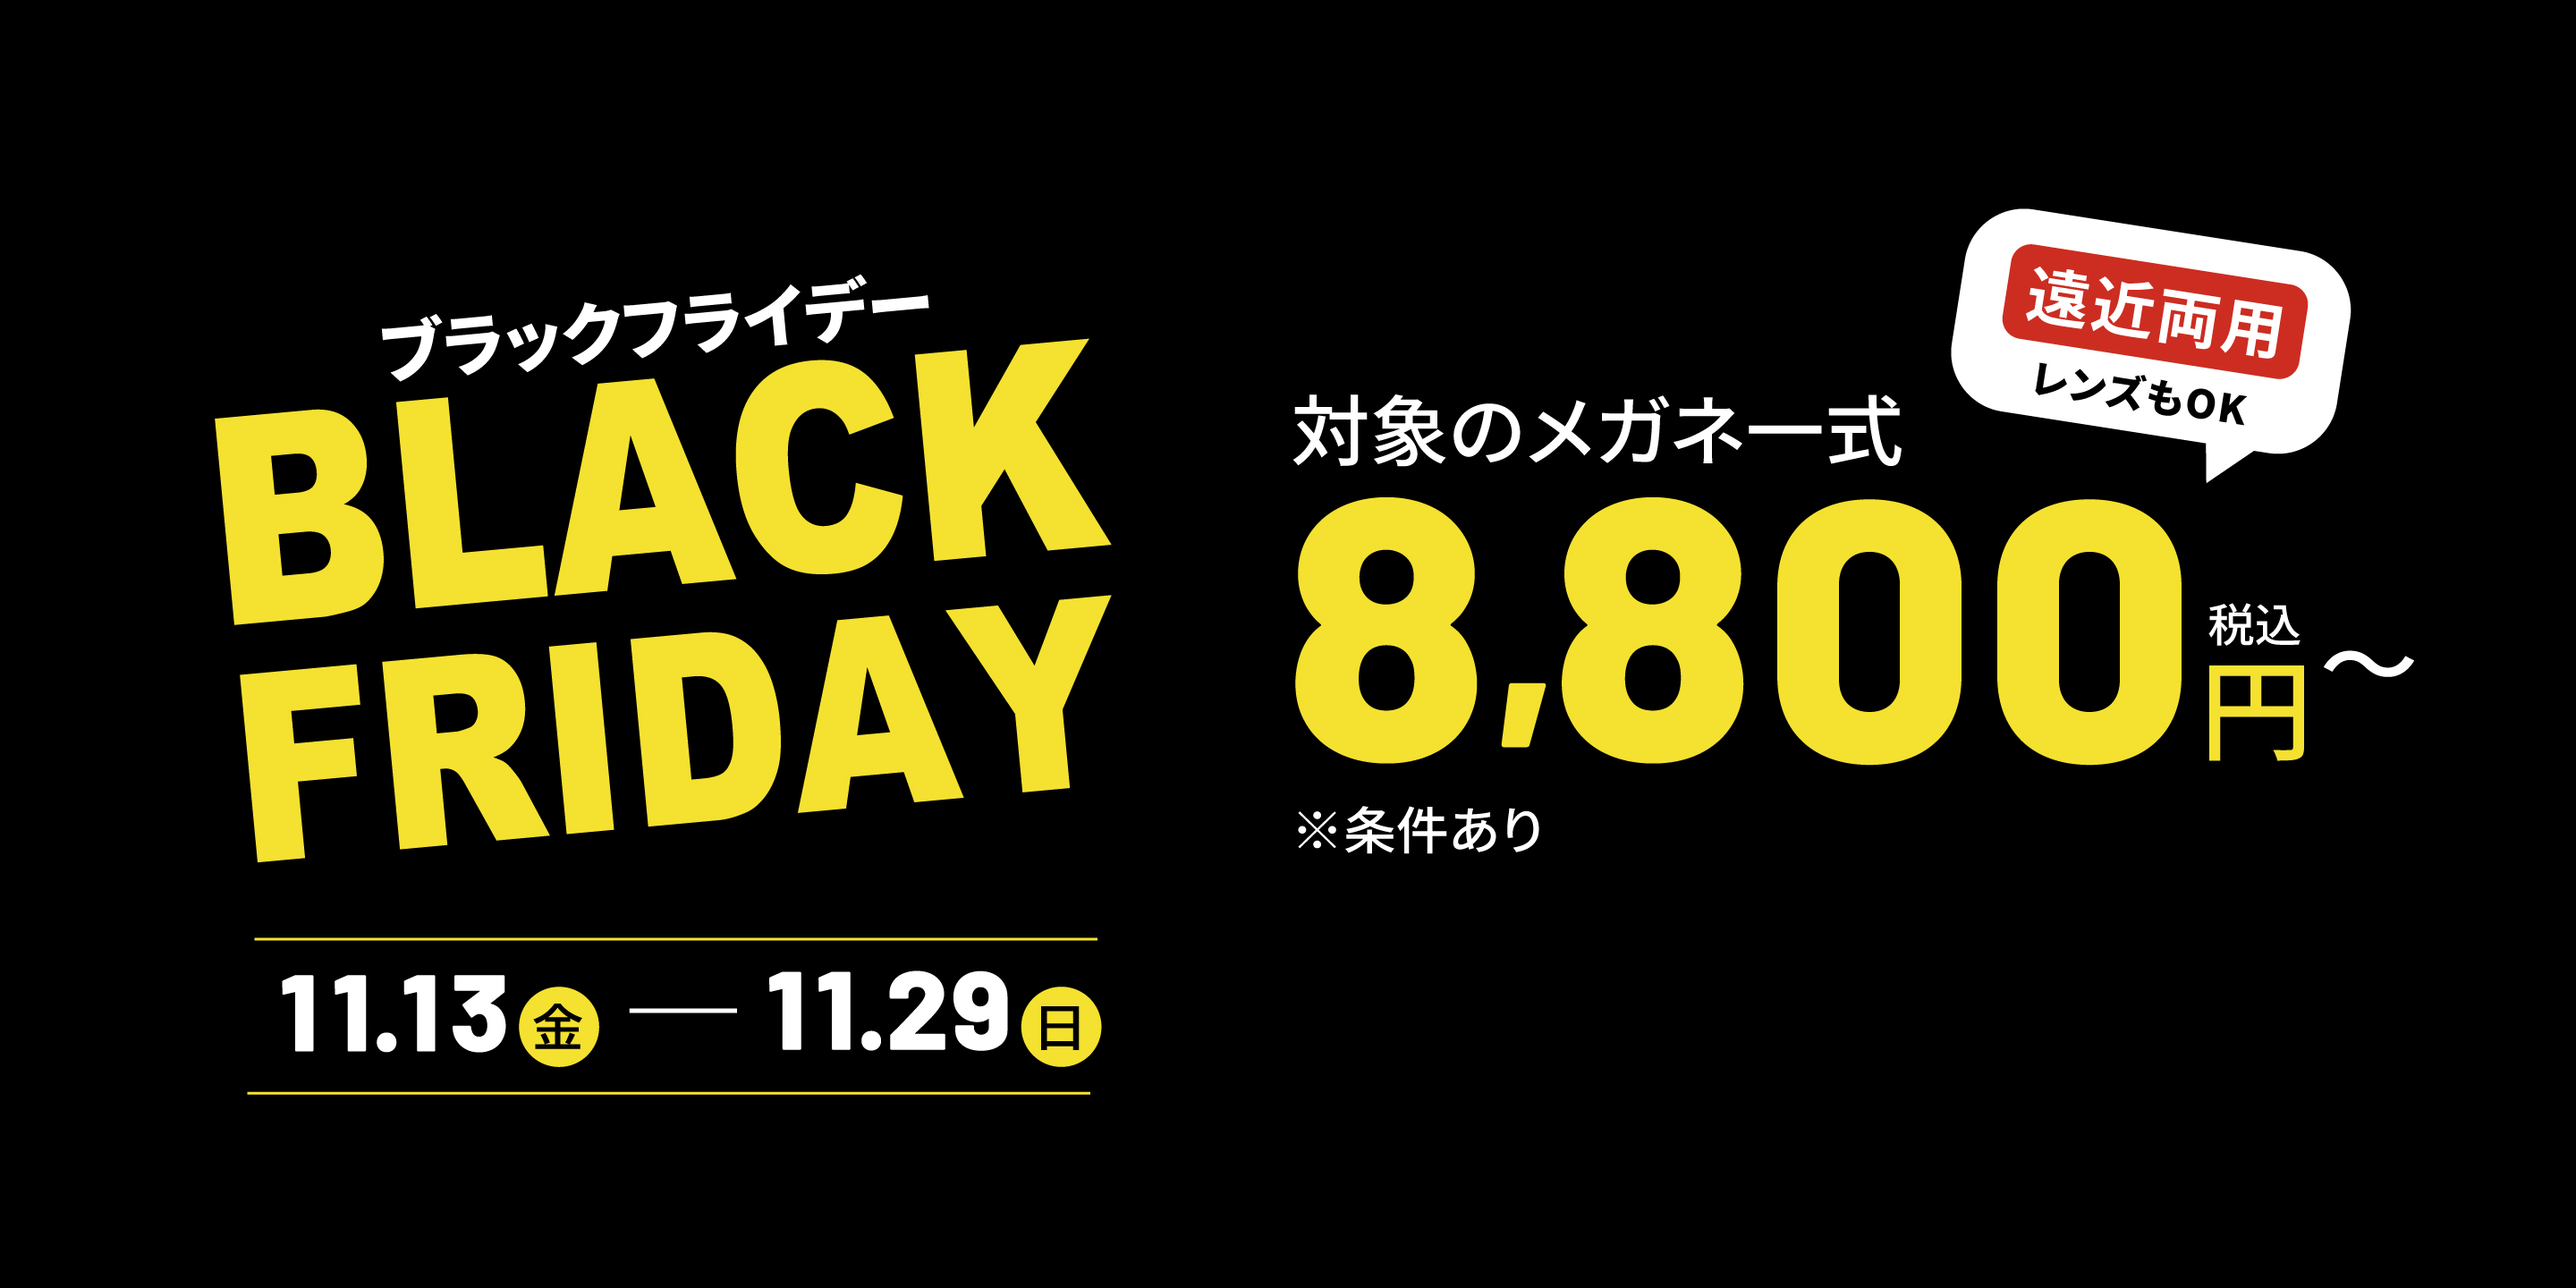
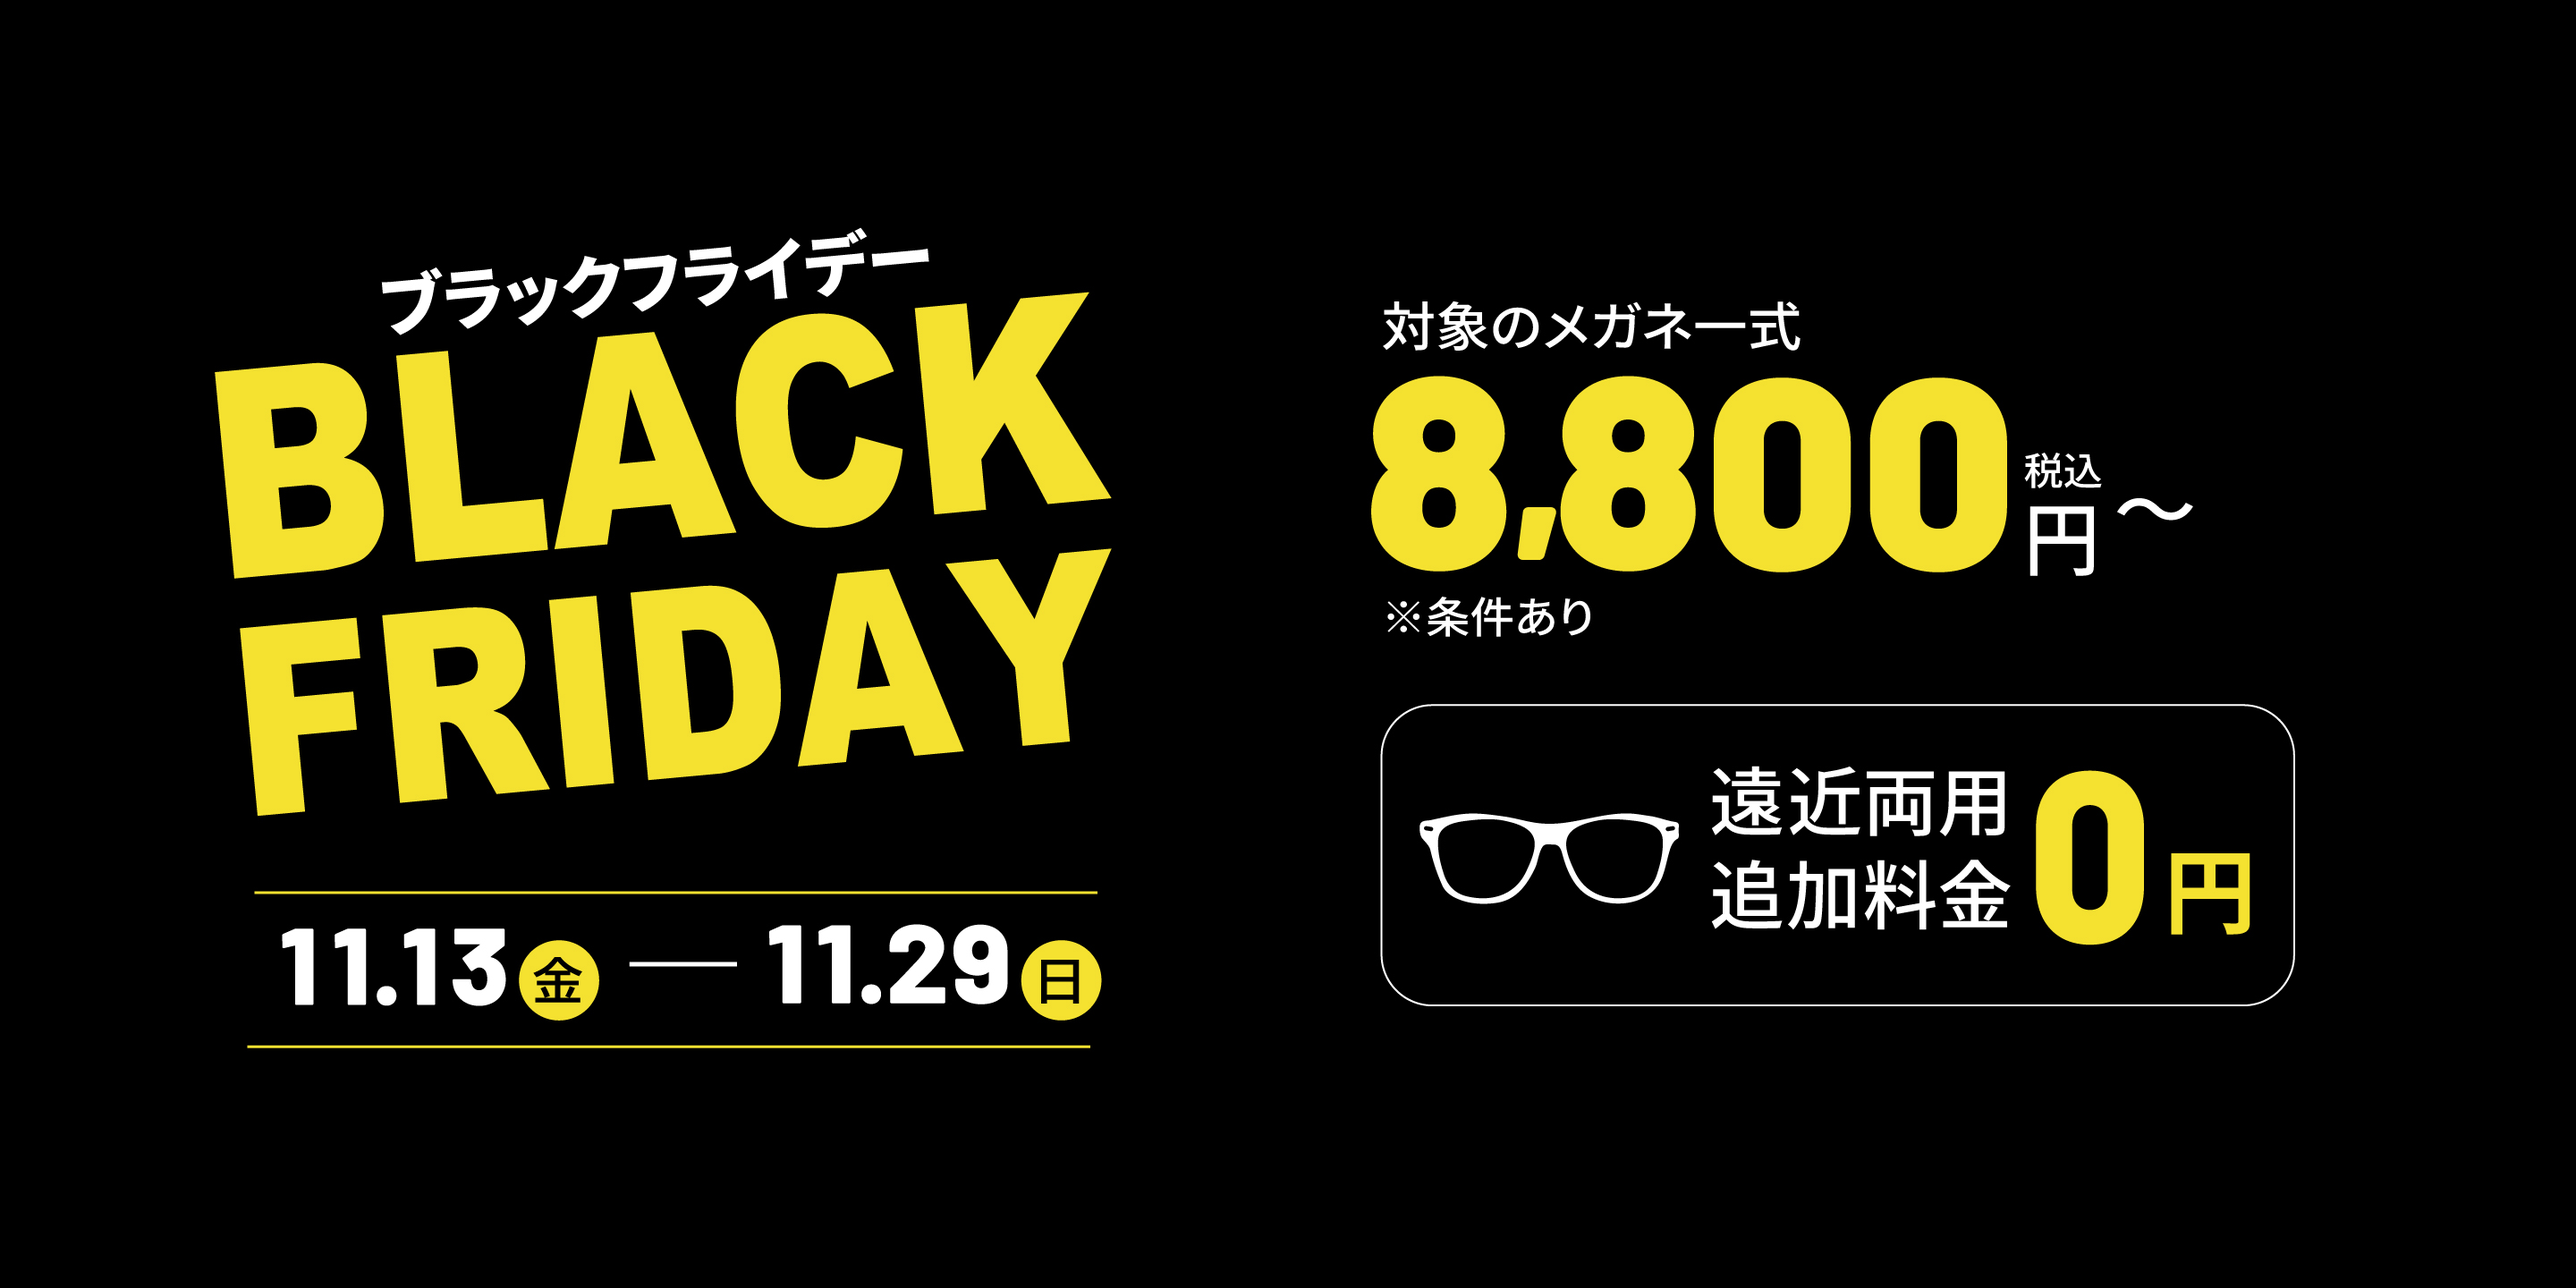
PC FV：新デザインに合わせて予約ボタンを遠近両用の枠の真下・同じ幅に

Changed region(s): [[0.5, 0.1562, 0.9375, 0.75], [0.0625, 0.1875, 0.4375, 0.6875], [0.0938, 0.7188, 0.4375, 0.8438]]

diff --git a/index.html b/index.html
@@ -1071,6 +1071,8 @@
     .fv .fv-cta .btn { width: 100%; }
     /* 10/29 FVのボタンを目立たせる：大きく・文字を大きく（まわりの光は「変に目立つ」ためなし） */
     .fv .fv-cta { width: 34vw; top: 37.5vw; }
+    /* 11/2 新しいPC FV（遠近両用0円の枠つき）→ボタンを枠の真下・枠と同じ幅に */
+    .fv .fv-cta { left: 53.6%; top: 43.4vw; width: 35.5vw; }
     .fv .fv-cta .btn-arw { min-height: 5.4vw; font-size: clamp(21px, 2vw, 38px); box-shadow: none; }
     .fv .fv-cta .btn-arw .arw { width: 3.8vw; height: 3.8vw; margin-top: -1.9vw; right: .8vw; font-size: 1.3vw; }
     /* 10/29 お得な内容：左に「2,200円OFF」・右に商品例の2列。下のさらに2つの割引〜注意書きは今までどおり中央 */
